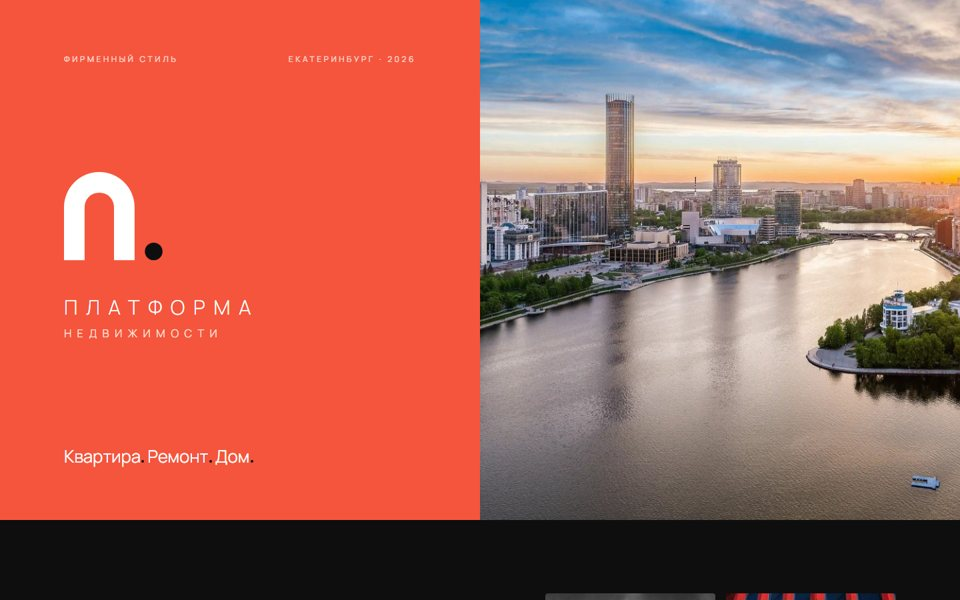
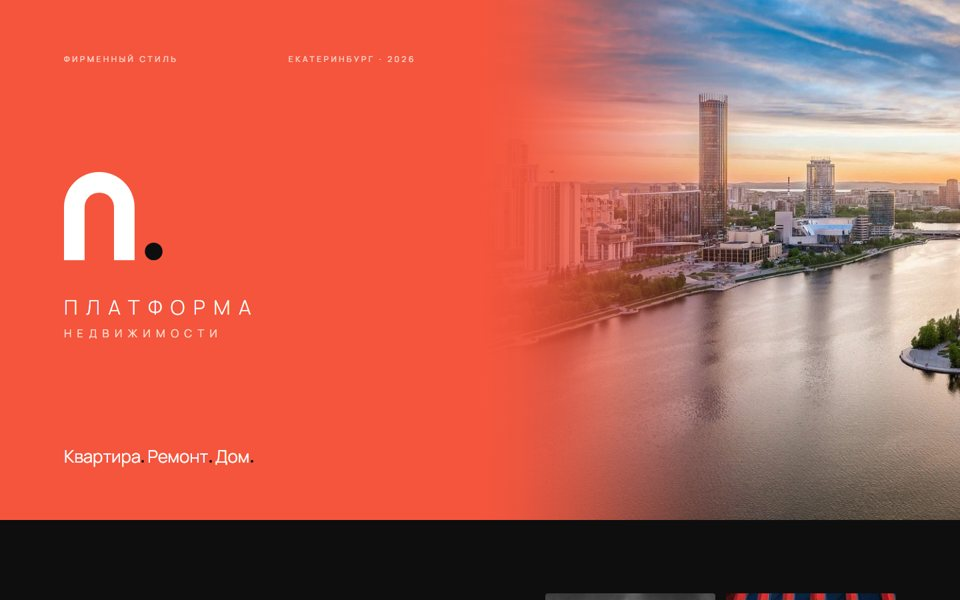
Обложка: плавный градиент красного в фото

diff --git a/07_Презентация/index.html b/07_Презентация/index.html
@@ -19,8 +19,8 @@ p.lead{font-size:20px;line-height:1.55;max-width:620px;color:inherit;opacity:.85
 .cover{height:780px;background:#F5553C;display:grid;grid-template-columns:1fr 1fr}
 .cover .l svg{width:150px;height:auto}
 .cover .l{padding:80px 96px;display:flex;flex-direction:column;justify-content:space-between;color:#fff}
-.cover .r{background:url(photo/ekb_city.jpg) 33% 50%/cover;position:relative}
-.cover .r::after{display:none}
+.cover .r{background:url(photo/ekb_city.jpg) 12% 50%/cover;position:relative}
+.cover .r::after{content:'';position:absolute;inset:0;background:linear-gradient(90deg,#F5553C 0%,#F5553Cf2 8%,#F5553Cc7 18%,#F5553C80 30%,#F5553C33 44%,#F5553C0d 56%,#F5553C00 66%)}
 .cover .meta{display:flex;justify-content:space-between;font-size:12px;letter-spacing:.3em;text-transform:uppercase;opacity:.8}
 /* about */
 .about{display:grid;grid-template-columns:1.1fr .9fr;gap:80px;align-items:end}

diff --git a/tools/p_present.py b/tools/p_present.py
@@ -203,8 +203,8 @@ p.lead{{font-size:20px;line-height:1.55;max-width:620px;color:inherit;opacity:.8
 .cover{{height:780px;background:{RED};display:grid;grid-template-columns:1fr 1fr}}
 .cover .l svg{{width:150px;height:auto}}
 .cover .l{{padding:80px 96px;display:flex;flex-direction:column;justify-content:space-between;color:#fff}}
-.cover .r{{background:url(photo/ekb_city.jpg) 33% 50%/cover;position:relative}}
-.cover .r::after{{display:none}}
+.cover .r{{background:url(photo/ekb_city.jpg) 12% 50%/cover;position:relative}}
+.cover .r::after{{content:'';position:absolute;inset:0;background:linear-gradient(90deg,{RED} 0%,#F5553Cf2 8%,#F5553Cc7 18%,#F5553C80 30%,#F5553C33 44%,#F5553C0d 56%,#F5553C00 66%)}}
 .cover .meta{{display:flex;justify-content:space-between;font-size:12px;letter-spacing:.3em;text-transform:uppercase;opacity:.8}}
 /* about */
 .about{{display:grid;grid-template-columns:1.1fr .9fr;gap:80px;align-items:end}}
